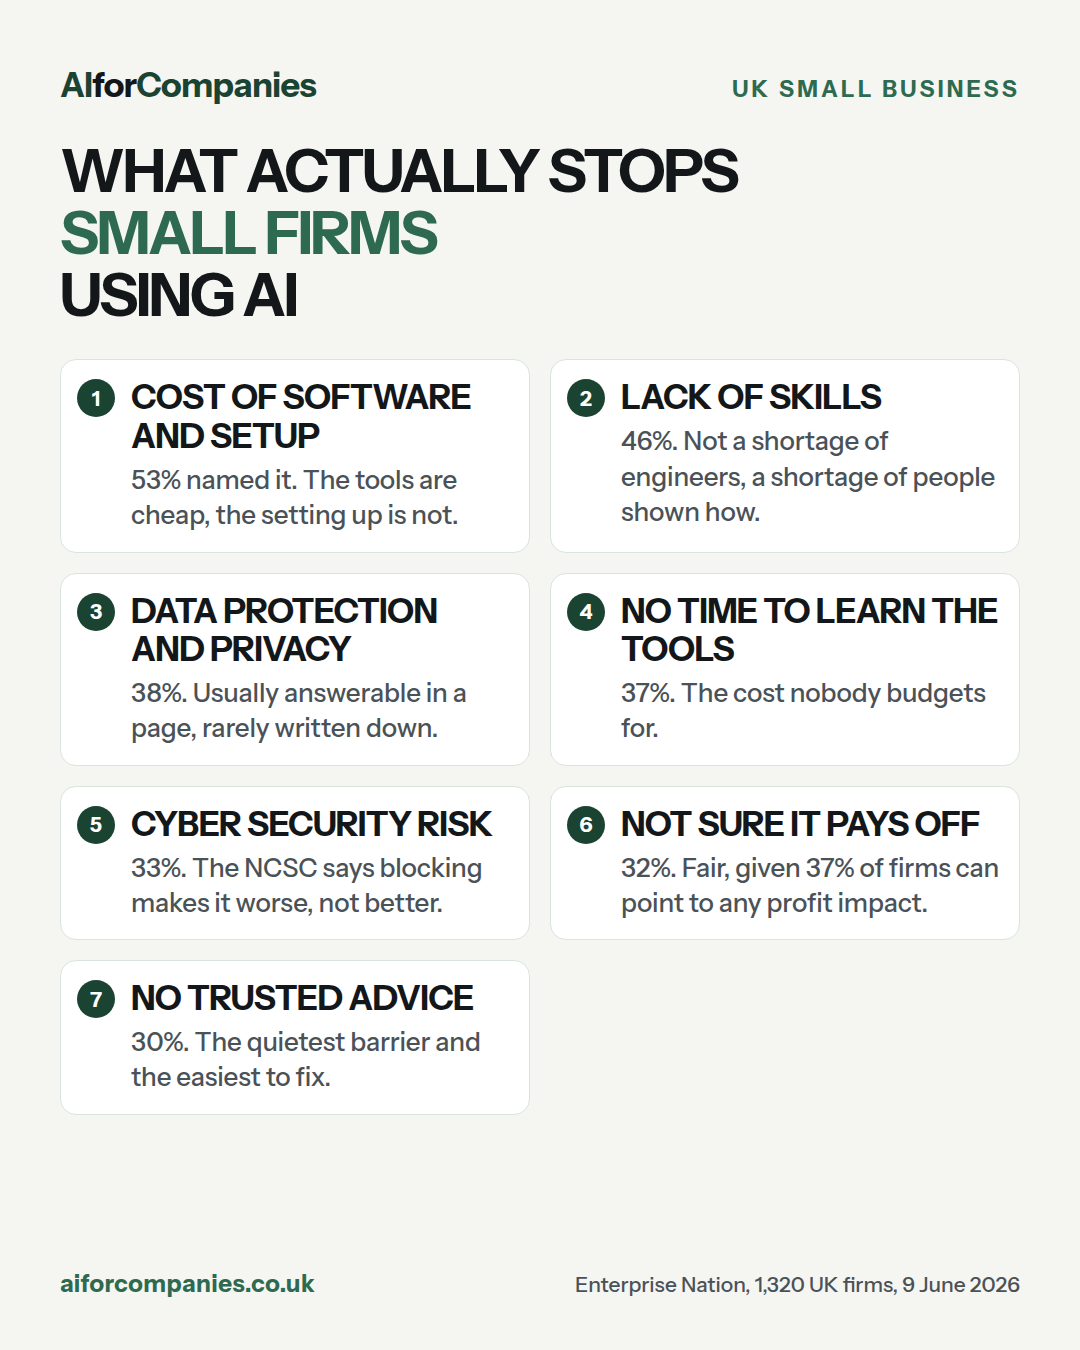
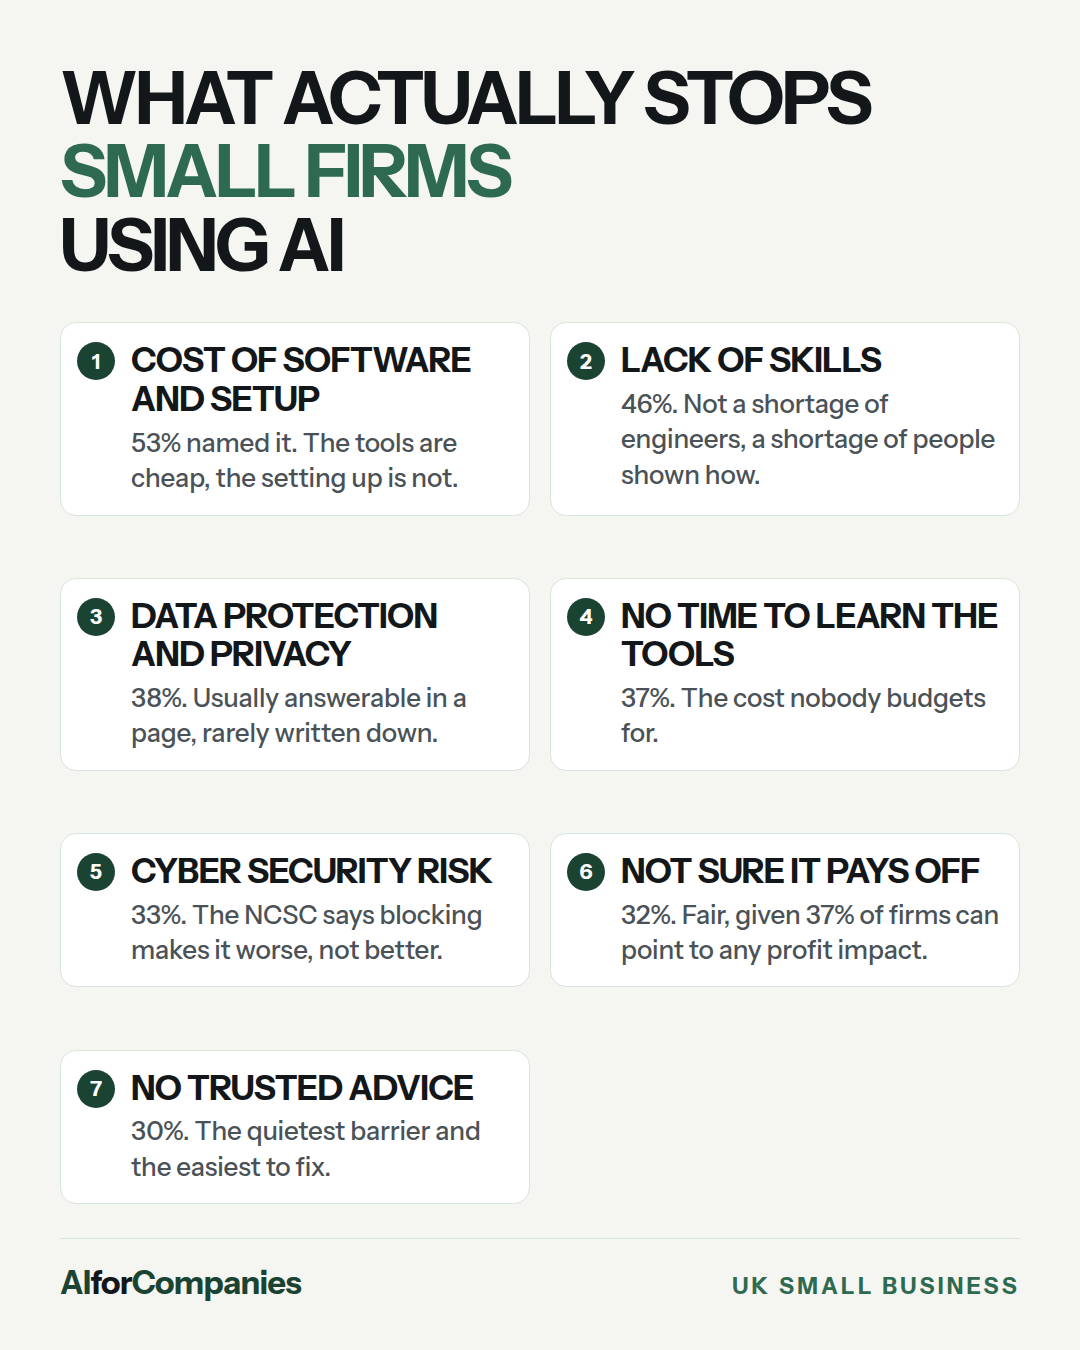
Grid v2: wordmark and category to the foot, larger title, no source on the card. Knowledge base doc.

diff --git a/docs/21-what-works.md b/docs/21-what-works.md
@@ -1,0 +1,90 @@
+# 21. What works
+
+The knowledge base. Everything we have learned about what performs, what falls flat, and
+what to do differently, in one place, added to rather than rewritten.
+
+Two rules keep it honest.
+
+**Date and source every entry.** A claim with no date is a claim you cannot retire.
+**Separate our own numbers from other people's.** Section 2 is what happened on our page.
+Section 3 is what the wider evidence says. They are not the same kind of knowing, and
+mixing them is how a vendor blog post ends up steering the editorial line.
+
+---
+
+## 1. Standing conclusions
+
+The short list. Anything here has either survived a month of our own data or rests on a
+study with a published method and sample.
+
+- **Actionable beats factual.** A post that tells someone what to do on Tuesday morning
+  outperforms one that tells them something true. Statistics earn attention; instructions
+  earn saves. Aim for at least half of grids and guides to be things to try rather than
+  things that are so. *Added 16 Sep 2026, from Viren, pending our own numbers.*
+- **The card is for the save, the body is for the substance.** Sources, caveats and
+  workings go in the post body. The card carries the claim and nothing else.
+  *Added 16 Sep 2026.*
+- **One in three photo cards needs a second pass**, almost always for legible third-party
+  branding. Budget the review time. *Added 16 Sep 2026, from the first batch.*
+- **Company pages do not build an audience alone.** See `docs/20`. The personal reshare in
+  the first hour is the lever. *Added 16 Sep 2026.*
+
+## 2. Our own numbers
+
+Filled by the weekly analytics pass. Until there are four weeks of them, treat everything
+here as noise: a page from a standing start produces almost no signal.
+
+| Week | Posts | Best performer | Worst | What we changed |
+|---|---|---|---|---|
+| | | | | |
+
+For each week the pass should record: impressions and engagement by **post type**, by
+**hook shape**, and by **destination**, plus the single best and worst post and a guess at
+why. The guess matters. A number with no hypothesis attached teaches nothing next week.
+
+### Questions we are trying to answer
+
+Written down so we stop re-litigating them from vibes.
+
+1. Do grids and carousels actually out-save news cards on our page, as the platform
+   benchmarks suggest, or is that a benchmark from bigger pages?
+2. Does the actionable register beat the factual one, and by how much?
+3. Which destination converts: the insights article, the sector page, or `/prompts`?
+4. Does the personal reshare move the number, and by enough to be worth the minute?
+5. Is three a day too many? `docs/02` says 4 to 5 a week peaks. We are at 15.
+
+## 3. Outside evidence
+
+Everything here is somebody else's measurement. Sample and date included or it does not go
+in.
+
+| Finding | Number | Source | Read on |
+|---|---|---|---|
+| Company page organic reach decline, 2024 to early 2026 | 60 to 66% | Ordinal, Jan 2026 | 16 Sep 2026 |
+| Company pages as share of a typical feed | 1 to 2%, and 5.37% in a second count | Ordinal; DSMN8 | 16 Sep 2026 |
+| Original employee post vs unedited reshare | 9.2x, rising to 12x by Jun 2026 | DSMN8, 517,374 posts H1 2026 | 16 Sep 2026 |
+| Editing a reshare by a word or two | 3x engagement | DSMN8, same | 16 Sep 2026 |
+| First hour reach | 2 to 5% of followers | Ordinal | 16 Sep 2026 |
+| Hashtag sweet spot | 2 to 3, benefits drop after | Usera and Durham, 991 posts, BPCQ 2025 | 16 Sep 2026 |
+| Tagging vs hashtags | Tagging wins outright | Usera and Durham, same | 16 Sep 2026 |
+| Company page format engagement | Document 7.00%, multi-image 6.45%, video 6.00%, image 5.30%, text 4.50%, link 3.25% | `docs/02` | 15 Sep 2026 |
+| Link penalty on text posts | 18.8% measured, but LinkedIn says no intentional limiting | van der Blom 2026; LinkedIn Senior Director via Ordinal | Disputed, see `docs/20` |
+
+## 4. Things we tried that did not work
+
+Empty so far. It will not stay empty, and this is the most useful section in the file when
+it is full. A failure with a reason beats a success with none.
+
+| What | When | What happened | What we think went wrong |
+|---|---|---|---|
+| | | | |
+
+## 5. How this file gets updated
+
+The weekly batch writes to it, every week, as part of the analytics pass. Two or three
+lines is a good week. Rewriting the standing conclusions on one week's data is how a page
+develops a personality disorder, so a conclusion only moves when a month disagrees with it.
+
+Research findings from outside go in section 3 with their sample size. If a source does not
+publish one, say so in the row rather than leaving it out: knowing a number is soft is
+itself worth recording.

diff --git a/docs/18-post-types-and-tools.md b/docs/18-post-types-and-tools.md
@@ -39,17 +39,24 @@ await renderCard({
   lines: [{t:'What actually stops'},{t:'small firms',accent:true},{t:'using AI'}],
   size: 60,
   items: [{ title: 'Cost of software and setup', body: '53% named it...' }, ...],
-  src: 'Enterprise Nation, 1,320 UK firms, 9 June 2026',
 }, 'out/grid.png');
 ```
+
+The wordmark and the category sit at the foot, under a hairline rule. **The source line
+does not go on the card.** It goes in the post body where it can actually be read, and
+keeping it off the card is what lets the headline run large.
 
 **Sizing is the whole game.** Two columns stay legible to about ten items with two-line
 bodies. Past that the body type falls below what a phone can read in feed and the piece
 should be a carousel instead. The template scales type down as the grid gets denser, with
 floors: do not override `bodySize` below 21.
 
-One accent line in the headline, never two. `src` in the footer whenever the list rests
-on a figure, which it usually should.
+One accent line in the headline, never two.
+
+**Half of these should be things to do, not things that are true.** A grid of statistics
+is a good post; a grid of six jobs to hand your assistant on Monday morning is a better
+one, because the reader can act on it before lunch. Statistics earn attention, instructions
+earn saves. See `docs/21-what-works.md`.
 
 ## 3. roundup
 **Template** `roundup`. **Asset** one image. **New, 16 September 2026.**

diff --git a/bank/posts/2026-09-23-six-jobs-grid.md b/bank/posts/2026-09-23-six-jobs-grid.md
@@ -1,0 +1,17 @@
+Six jobs to hand your assistant this week. None of them take longer than ten minutes and all of them are work you were going to do anyway.
+
+1. The policy nobody reads. Paste it in and ask for the same rules at reading age twelve, on one page. Then read both and see which one you would actually circulate.
+
+2. Meeting notes into actions. Paste the notes, ask for owners and dates only, nothing else. The "nothing else" is the instruction that makes it useful.
+
+3. The email you are avoiding. Describe the situation and the outcome you want, ask for three versions. Send none of them as written. You will have the shape of it in two minutes instead of forty.
+
+4. Two lists that should match. Give it both exports and ask what is in one and not the other. This is the one that surprises people, because it is the job nobody thinks to give it.
+
+5. Prep for a hard call. Ask it what the client will object to, before they do. It will get about half of them, and the half it gets are the ones you had not thought about.
+
+6. The job advert. Describe the person you want rather than the role, and let it write the role. The adverts that work describe a person.
+
+The pattern underneath all six: you are not asking it to know something, you are asking it to do something to material you already have. That is where the time goes, and it is the use almost nobody arrives at on their own.
+
+Pick one. Not six.

diff --git a/README.md b/README.md
@@ -453,3 +453,4 @@ scratch/              one-off scripts from the build. Nothing reads these.
 | `18-post-types-and-tools.md` | The seven post types, the builder for each, and how to choose |
 | `19-batch-and-drain.md` | The weekly batch, the daily drain, and the bank schema |
 | `20-growth-and-amplification.md` | Company page reach, amplifying from the personal profile, tagging, hashtags |
+| `21-what-works.md` | The knowledge base. Our numbers, outside evidence, and what failed. |
